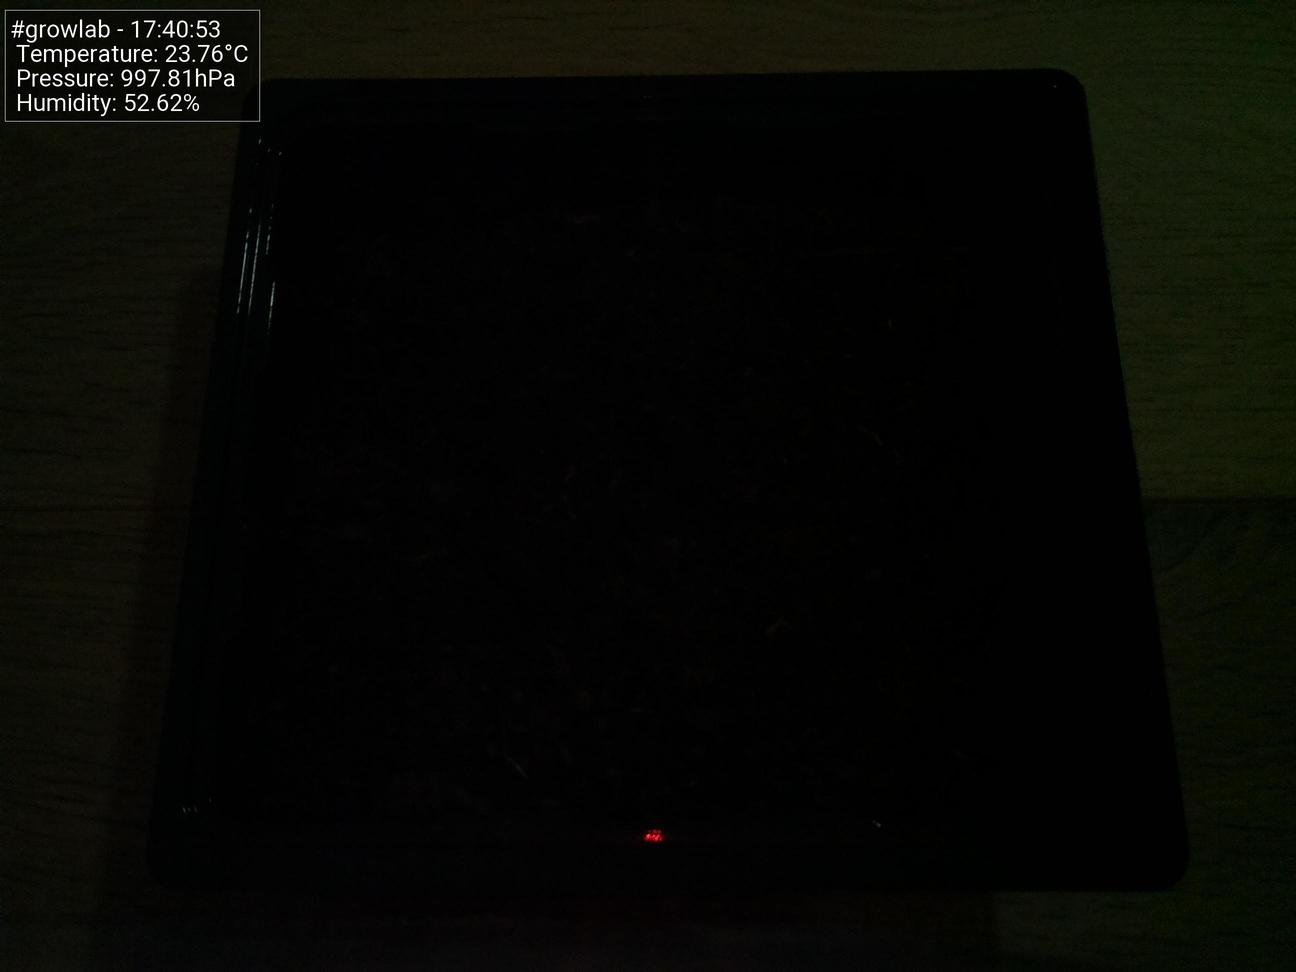
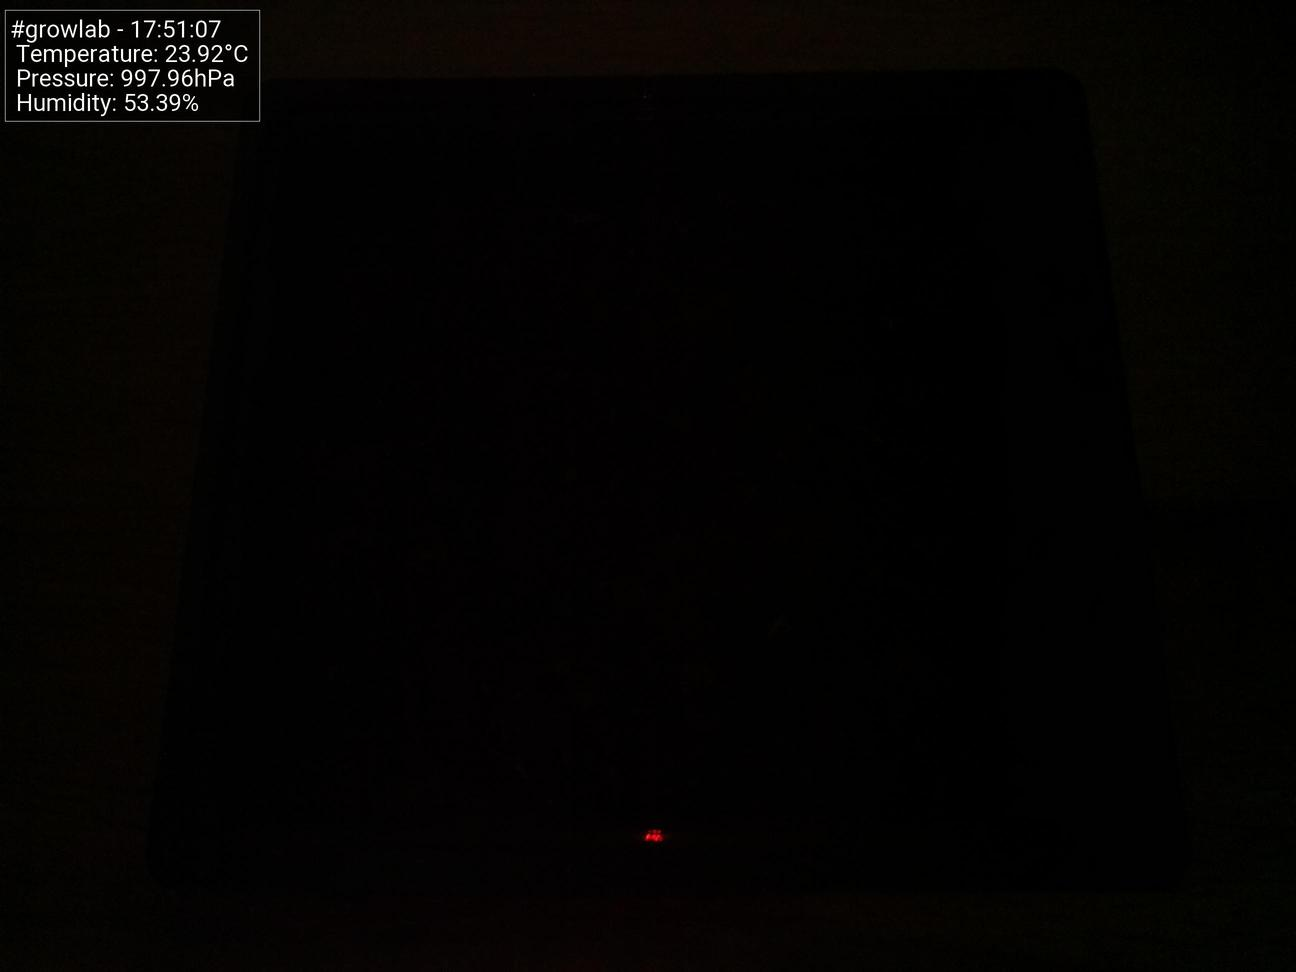
Update images at Thu 27 May 17:51:11 CEST 2021

Changed region(s): [[0.8333, 0.0, 1.0, 0.4938], [0.0926, 0.0, 0.1852, 0.1235], [0.1852, 0.2469, 0.216, 0.3086]]

diff --git a/docs/index.html b/docs/index.html
@@ -47,19 +47,19 @@
                         <tbody>
                             <tr>
                                 <td>Time</td>
-                                <td>17:40:53</td>
+                                <td>17:51:07</td>
                             </tr>
                             <tr>
                                 <td>Temperature</td>
-                                <td>23.76°C</td>
+                                <td>23.92°C</td>
                             </tr>
                             <tr>
                                 <td>Humidity</td>
-                                <td>52.62%</td>
+                                <td>53.39%</td>
                             </tr>
                             <tr>
                                 <td>Pressure</td>
-                                <td>997.81hPa</td>
+                                <td>997.96hPa</td>
                             </tr>
                         </tbody>
                     </table>
@@ -67,7 +67,7 @@
 
                 <h5>Latest image</h5>
                 <div style="width: 85%;">
-                            <img class="figure-img img-fluid rounded" src="./preview.jpg?uid=1622130057.5980892">
+                            <img class="figure-img img-fluid rounded" src="./preview.jpg?uid=1622130671.191933">
                 </div>
             </div>
         </div>
